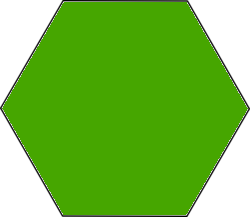
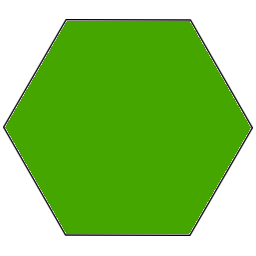
Added a new region
Also, Map is renamed to World (since std::map is a datastructure).
Most important part is getHexPos(int index). Given a hex index, it
returns it's position in the world. This will simplify the creation of
regions.

Changed region(s): [[0.0, 0.0, 1.0, 1.0]]

diff --git a/Regions.cpp b/Regions.cpp
@@ -1,4 +1,4 @@
-#include <iostream>
+#include <iostream>
 #include "Texture.hpp"
 #include "GlobalValues.hpp"
 
@@ -8,9 +8,9 @@
 
 City* Region::selectedCity = nullptr;
 
-Region::Region(std::vector<sf::Vector2f> poses, FactionEnum setFaction, TextureIndex hexTexture):
+Region::Region(std::vector<sf::Vector2f> poses, FactionEnum setFaction, TextureIndex hexTexture, string cityName):
 	texture(nullptr),
-	city("Bronx", Resources(40, 0, 0), 20, 170, 120),
+	city(cityName, Resources(40, 0, 0), 20, poses.at(0).x + 75, poses.at(0).y + 70),
 	farm(1, 6, 10, 0, 170, 120),
 	mill(0, 0, 0, 0, 0, 0),
 	mine(0, 0, 0, 0, 0, 0),
@@ -19,11 +19,13 @@ Region::Region(std::vector<sf::Vector2f> poses, FactionEnum setFaction, TextureI
 	origOwner(setFaction)
 
 {
-	for (std::vector<sf::Vector2f>::iterator it = poses.begin(); it != poses.end(); ++it)
+	for (auto& pos : poses)
 	{
 		sf::Sprite temp;
 		temp.setTexture(getTexture(hexTexture));
-		temp.setPosition(*it);
+		temp.setPosition(pos);
+		temp.setScale(DEFAULT_HEX_SIZE / getTexture(hexTexture).getSize().x,
+					  DEFAULT_HEX_SIZE / getTexture(hexTexture).getSize().y);
 		hexagons.push_back(temp);
 	}
 
@@ -34,9 +36,9 @@ Region::Region(std::vector<sf::Vector2f> poses, FactionEnum setFaction, TextureI
 
 void Region::draw()
 {
-  for (std::vector<sf::Sprite>::iterator it = hexagons.begin(); it != hexagons.end(); ++it)
-	{
-		window->draw(*it);
+	for (auto& hexSprite : hexagons)
+	{	  
+		window->draw(hexSprite);
 	}
 
 	city.draw();
@@ -97,7 +99,6 @@ void Region::updateAfterTurn()
 	//mine.refreshAfterTurn();
 }
 
-
 void Region::setTexture(sf::Texture* tex)
 {
 	for (std::vector<sf::Sprite>::iterator it = hexagons.begin(); it != hexagons.end(); ++it)
@@ -106,46 +107,79 @@ void Region::setTexture(sf::Texture* tex)
     }
 }
 
-void Map::draw()
-{
+// ----------- MAP
 
+World world;
+
+// Hexes are structured like this:
+// 8  9 11 12 13 
+//  4  5  6  7  
+// 0  1  2  3    
+// This method, given an index, returns the world px position.
+const int HEX_PER_ROW = 4;
+sf::Vector2f getHexPos(int index)
+{
+	// ((index % 6) % 2) - ofset every second row. 
+	return sf::Vector2f(
+		DEFAULT_HEX_SIZE * 1.5 * (index % HEX_PER_ROW) + (DEFAULT_HEX_SIZE * 0.75) * ((index / HEX_PER_ROW) % 2),
+		-DEFAULT_HEX_SIZE * 0.43 * (index / HEX_PER_ROW)
+		);
+}
+
+World::World() 
+{
+	std::vector<sf::Vector2f> hexPos;
+
+	hexPos.push_back(getHexPos(0));
+	hexPos.push_back(getHexPos(4));
+	hexPos.push_back(getHexPos(1));
+	hexPos.push_back(getHexPos(5));
+	regions.push_back(Region(hexPos, elfFaction, grassLandsHex, "Rivendell"));
+	hexPos.clear();
+
+	hexPos.push_back(getHexPos(2));
+	hexPos.push_back(getHexPos(6));
+	hexPos.push_back(getHexPos(3));
+	hexPos.push_back(getHexPos(7));
+	regions.push_back(Region(hexPos, dwarfFaction, woodlandsHex, "Khazad-dum"));
+}
+
+void World::draw()
+{
 	for ( auto& i : regions)
 	{
 		i.draw();
 	}
 }
-bool Map::handleInput()
+void World::drawMenu()
 {
 	for (auto& i : regions)
 	{
-		i.handleInput();
-		return true;
+		i.drawMenu();
 	}
-	// Some empty spot clicked, deselect the city.
-	Region::selectedCity = nullptr;  
+}
+bool World::handleInput()
+{
+	for (auto& i : regions)
+	{
+		if (i.handleInput())
+		{
+			return true;
+		}
+	}
+	if (leftClickPressed)
+	{
+		// Some empty spot clicked, deselect the city.
+		Region::selectedCity = nullptr;
+	}
 	return false;
 }
 
-void Map::updateAfterTurn()
+void World::updateAfterTurn()
 {
 	for ( auto& i : regions)
     {
 		i.updateAfterTurn();
     }
 }
-Map::Map(std::vector<Region> R):
-	regions(R)
-{
-}
 
-std::vector<sf::Vector2f> getHexPos()
-{
-	std::vector<sf::Vector2f> hexPos;
-	hexPos.push_back(sf::Vector2f(100,50));
-	hexPos.push_back(sf::Vector2f(100,270));
-	hexPos.push_back(sf::Vector2f(-90,160));
-	return hexPos;
-}
-Region R(getHexPos(), elfFaction, grassLandsHexTexture);
-
- Map M= Map( vector<Region>{R});

diff --git a/Regions.hpp b/Regions.hpp
@@ -11,7 +11,7 @@
 #ifndef REGIONS_H
 #define REGIONS_H
 
-const int DEFAULT_HEX_SIZE = 80; //This should eventually be calculated by starting res
+const double DEFAULT_HEX_SIZE = 256; //This should eventually be calculated by starting res
 
 class Region
 {
@@ -19,7 +19,7 @@ public:
 	//should probably write a copy and descructor 
 		// Why? If you mean saving, there should be a constructor that takes raw binary data, but that comes later.
 
-	Region(std::vector<sf::Vector2f> poses, FactionEnum setFaction, TextureIndex hexTexture);
+	Region(std::vector<sf::Vector2f> poses, FactionEnum setFaction, TextureIndex hexTexture, string cityName);
 	void draw();
 	void drawMenu();
 	bool handleInput();
@@ -48,19 +48,19 @@ private:
 	sf::Sprite menu;
 
 };
-class Map
+class World
 {
 public:
+	World();
+
   void draw();
+  void drawMenu();
   bool handleInput();
   void updateAfterTurn();
-  Map(std::vector<Region> R);
 private:
   std::vector<Region> regions;
 };
 
-
-//extern Region R;
-extern Map M;
+extern World world;
 
 #endif /* REGIONS_H */

diff --git a/Texture.cpp b/Texture.cpp
@@ -12,7 +12,9 @@ const sf::Texture& getTexture(TextureIndex textureIndex)
 	if (texturePointer[textureIndex].getSize().x == 0 && texturePointer[textureIndex].getSize().y == 0)
 	{
 		if (!texturePointer[buttonTexture1].loadFromFile(getResourcePath() + "buttonNext.png")			|| 
-			!texturePointer[grassLandsHexTexture].loadFromFile(getResourcePath() + "grasslandsHex.png") ||
+			!texturePointer[grassLandsHex].loadFromFile(getResourcePath() + "grasslandsHex.png")		||
+			!texturePointer[woodlandsHex].loadFromFile(getResourcePath() + "woodlandsHex.png")			||
+			!texturePointer[deepSeaHex].loadFromFile(getResourcePath() + "deepSeaHex.png")				||
 			!texturePointer[randomCityTexture].loadFromFile(getResourcePath() + "randomCityTexture.png")
 			
 			)	

diff --git a/GameViews.cpp b/GameViews.cpp
@@ -38,12 +38,13 @@ void GameViews::render()
 		if (EndTurn::handleInput())
 		{
 		}
-		else if (M.handleInput())
+		else if (world.handleInput())
 		{
 
 		}
 
-		M.draw();
+		world.draw();
+		world.drawMenu();
 		EndTurn::draw();
 	}
 }

diff --git a/Texture.hpp b/Texture.hpp
@@ -9,7 +9,10 @@
 enum TextureIndex
 {
 	buttonTexture1,
-	grassLandsHexTexture,
+	grassLandsHex,
+	woodlandsHex,
+	deepSeaHex,
+
 	randomCityTexture,
 
 	totalTextures,

diff --git a/EndTurn.cpp b/EndTurn.cpp
@@ -24,5 +24,5 @@ bool EndTurn::handleInput()
 void EndTurn::endTurn()
 {
 
-	M.updateAfterTurn();
+	world.updateAfterTurn();
 }
